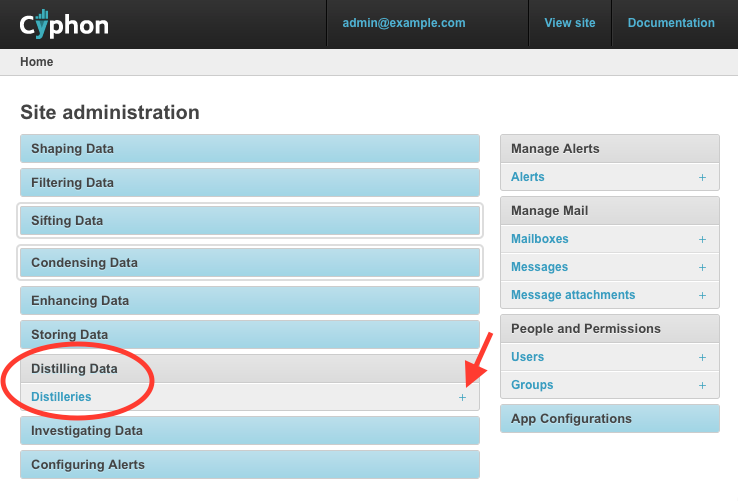
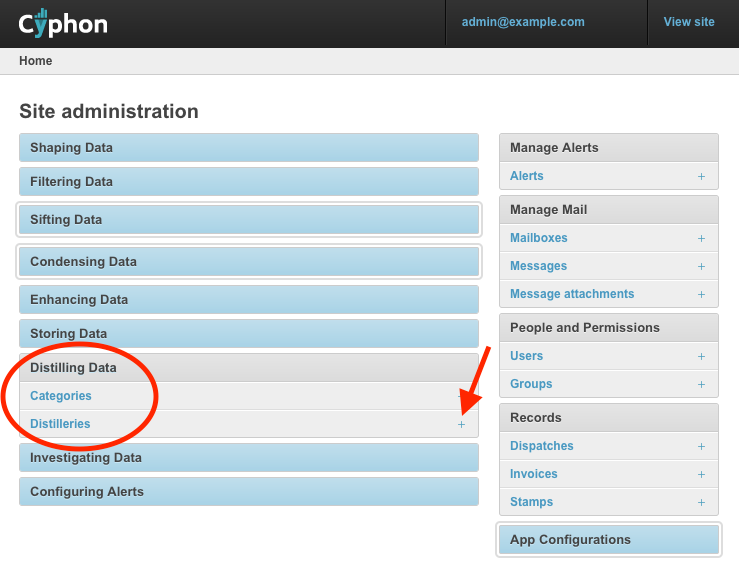
add categories to main admin page

diff --git a/cyphon/cyphon/dashboard.py b/cyphon/cyphon/dashboard.py
@@ -164,6 +164,7 @@ class CyphonIndexDashboard(Dashboard):
             column=1,
             css_classes=('grp-collapse grp-closed',),
             models=(
+                'categories.models.Category',
                 'distilleries.models.Distillery',
             ),
         ))
